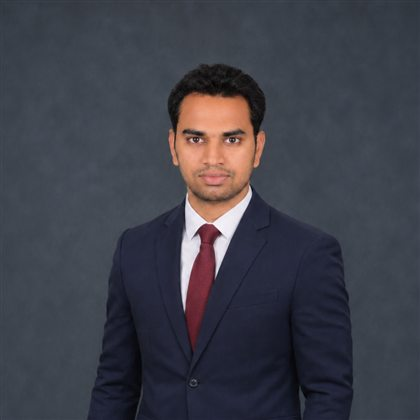
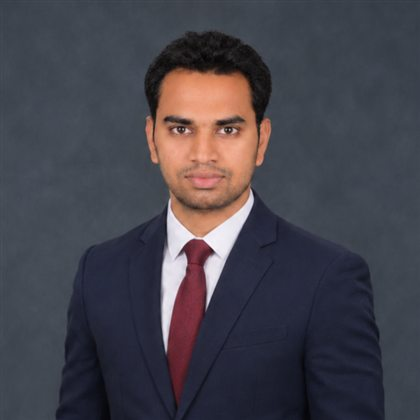
Replace Arpit Gupta portrait with updated photo

diff --git a/team.html b/team.html
@@ -1,1 +1,1 @@
-<!doctype html><html lang="en" id="top"><head><meta charset="utf-8"><meta name="viewport" content="width=device-width, initial-scale=1"><link rel="stylesheet" href="style.css"><script defer src="script.js"></script><title>Our Team | EPCO Integrated Solutions</title><meta name="description" content="Meet the people and capabilities behind EPCO Integrated Solutions."><link rel="canonical" href="https://www.epcoispl.com/in/team.html"><link rel="icon" href="favicon.svg" type="image/svg+xml"><meta property="og:type" content="website"><meta property="og:site_name" content="EPCO Integrated Solutions"><meta property="og:title" content="Our Team | EPCO Integrated Solutions"><meta property="og:description" content="Meet the people and capabilities behind EPCO Integrated Solutions."><meta property="og:url" content="https://www.epcoispl.com/in/team.html"><meta property="og:image" content="https://www.epcoispl.com/in/assets/hero-mumbai.webp"><meta property="og:image:alt" content="Illustrative building project"><meta name="twitter:card" content="summary_large_image"><meta name="twitter:title" content="Our Team | EPCO Integrated Solutions"><meta name="twitter:description" content="Meet the people and capabilities behind EPCO Integrated Solutions."><meta name="twitter:image" content="https://www.epcoispl.com/in/assets/hero-mumbai.webp"></head><body><a class="skip-link" href="#main-content">Skip to main content</a><header class="header"><a href="index.html" class="brand" aria-label="EPCO home"><img src="assets/logo.png" alt="EPCO Integrated Solutions" width="154" height="55"></a><button class="menu" aria-expanded="false" aria-controls="nav">Menu <span>☰</span></button><nav id="nav" aria-label="Main navigation"><a href="about.html">About</a><div class="nav-group"><button class="nav-toggle" aria-expanded="false" aria-controls="team-menu">Our Team<span class="nav-caret" aria-hidden="true"></span></button><div class="nav-dropdown" id="team-menu"><a href="team.html">Meet our team</a></div></div><div class="nav-group"><button class="nav-toggle" aria-expanded="false" aria-controls="services-menu">Services<span class="nav-caret" aria-hidden="true"></span></button><div class="nav-dropdown nav-services-dropdown" id="services-menu"><a href="services.html">All services</a><a href="operations.html">Integrated Facility Management</a><span class="nav-menu-label">Technical & workplace services</span><a href="hvac-maintenance.html">Mechanical &amp; HVAC</a><a href="electrical-maintenance.html">Electrical &amp; Power Systems</a><a href="elv-building-automation.html">ELV &amp; Building Automation</a><a href="plumbing-water-management.html">Plumbing, PHE &amp; Water Management</a><a href="fire-life-safety.html">Fire Protection &amp; Life Safety</a><a href="vertical-transportation.html">Lifts &amp; Vertical Transportation</a><a href="workplace-facility-services.html">Workplace &amp; Facility Support</a><a href="maintenance-asset-management.html">Maintenance, Assets &amp; Technical Support</a><a href="energy-sustainability.html">Energy &amp; Sustainability</a><span class="nav-menu-label">Project delivery</span><a href="engineering.html">Engineering</a><a href="procurement.html">Procurement</a><a href="supply-trading.html">Supply &amp; Trading</a><a href="construction.html">Construction</a><a href="project-management.html">Project Management</a><a href="turnkey-solutions.html">Turnkey Solutions</a></div></div><div class="nav-group"><button class="nav-toggle" aria-expanded="false" aria-controls="sectors-menu">Sectors<span class="nav-caret" aria-hidden="true"></span></button><div class="nav-dropdown" id="sectors-menu"><a href="sectors.html">Explore our sectors</a></div></div><a href="careers.html">Careers</a><a href="announcements.html">Announcements</a><a href="blogs.html">Blogs</a><a href="contact.html">Contact us</a><a class="header-email" href="mailto:epcoispl@gmail.com" aria-label="Email EPCO at epcoispl@gmail.com" title="epcoispl@gmail.com"><svg viewBox="0 0 24 24" width="20" height="20" fill="none" stroke="currentColor" stroke-width="1.7" stroke-linecap="round" stroke-linejoin="round" aria-hidden="true" focusable="false"><rect x="3" y="5" width="18" height="14" rx="2"></rect><path d="m3 7 9 6 9-6"></path></svg><span class="sr-only">epcoispl@gmail.com</span></a></nav></header><main id="main-content" tabindex="-1"><section class="page-banner"><div class="wrap"><div class="label">EPCO / OUR PEOPLE</div><h1>Our <em>team.</em></h1><p>Bringing people and project disciplines together to support the complete asset lifecycle.</p></div></section><section class="team-profiles" aria-labelledby="leadership-heading"><div class="wrap"><div class="label">OUR LEADERSHIP</div><h2 id="leadership-heading">Meet the people <em>behind EPCO.</em></h2><article class="leader-profile" aria-labelledby="arpit-name"><figure class="leader-photo"><img src="assets/arpit-gupta-420.jpg" srcset="assets/arpit-gupta-420.jpg 420w, assets/arpit-gupta-840.jpg 840w" sizes="(max-width: 520px) 88vw, (max-width: 800px) 460px, 420px" width="891" height="891" alt="Arpit Gupta, Managing Director of EPCO" loading="lazy" decoding="async"></figure><div class="leader-copy"><p class="leader-role">Managing Director</p><h3 id="arpit-name">Arpit Gupta</h3></div></article><article class="leader-profile" aria-labelledby="sekar-name"><figure class="leader-photo"><img src="assets/subramanian-sekar-420.jpg" srcset="assets/subramanian-sekar-420.jpg 420w, assets/subramanian-sekar-840.jpg 840w" sizes="(max-width: 520px) 88vw, (max-width: 800px) 460px, 420px" width="1254" height="1254" alt="Subramanian Sekar, Chief Executive Officer of EPCO" loading="lazy" decoding="async"></figure><div class="leader-copy"><p class="leader-role">Chief Executive Officer</p><h3 id="sekar-name">Subramanian Sekar</h3><p class="leader-experience">33+ years of infrastructure and project leadership</p><div class="leader-bio"><p>A distinguished Senior Infrastructure and Project Management Leader with over 33 years of experience in strategic leadership, development and delivery of large-scale infrastructure projects, particularly across the aviation and airport sectors.</p><p>Expertise spans airport development, terminal buildings, airside and landside infrastructure, metro interfaces and major civil engineering projects.</p><p>Strong capabilities in EPC project execution, contract and commercial management, financial control, value engineering and stakeholder leadership, with a proven track record of delivering complex projects through strategic vision, commercial acumen and execution excellence.</p></div></div></article></div></section><section class="wrap team-intro"><div><div class="label">WORKING TOGETHER</div><h2>One team.<br><em>Connected expertise.</em></h2></div><div><p class="lead">From planning and execution to the day-to-day operation of a facility, coordination matters.</p><p>Our work brings together engineering, procurement, construction and facility management capabilities to support each project's agreed scope.</p><a class="button" href="contact.html">Contact EPCO </a></div></section></main><footer><div class="wrap footer-layout"><div class="footer-brand"><a href="index.html" class="footer-logo" aria-label="EPCO home"><img width="154" height="55" src="assets/logo.png" alt="EPCO Integrated Solutions"></a><p>Engineering, procurement, construction and operations.</p></div><div><h2>Explore</h2><a href="index.html">Home</a><a href="about.html">About</a><a href="team.html">Our Team</a><a href="services.html">Services</a><a href="expertise.html">Expertise</a><a href="sectors.html">Sectors</a><a href="resources.html">Resources</a><a href="faq.html">FAQ</a></div><div class="footer-contact"><h2>Contact</h2><div class="contact-row"><span class="contact-icon"><svg viewBox="0 0 24 24" width="20" height="20" fill="none" stroke="currentColor" stroke-width="1.7" stroke-linecap="round" stroke-linejoin="round" aria-hidden="true" focusable="false"><path d="M20 10c0 6-8 11-8 11S4 16 4 10a8 8 0 1 1 16 0Z"></path><circle cx="12" cy="10" r="2.5"></circle></svg></span><div class="contact-copy"><span class="contact-label">Office</span><a href="https://www.google.com/maps/search/?api=1&amp;query=A103%20Bldg%20No1%205%2041-P%204%2C%20Shastri%20Bunglow%20Andheri%20W%2C%20Andheri%20Railway%20Station%2C%20Mumbai%2C%20Mumbai-%20400058%2C%20Maharashtra" target="_blank" rel="noopener noreferrer">A103 Bldg No1 5 41-P 4, Shastri Bunglow Andheri W, Andheri Railway Station, Mumbai, Mumbai- 400058, Maharashtra</a></div></div><div class="contact-row"><span class="contact-icon"><svg viewBox="0 0 24 24" width="20" height="20" fill="none" stroke="currentColor" stroke-width="1.7" stroke-linecap="round" stroke-linejoin="round" aria-hidden="true" focusable="false"><path d="m8 3 3 5-3 3a15 15 0 0 0 5 5l3-3 5 3c-1 5-4 6-8 4C7 17 3 12 3 7c0-2 2-4 5-4Z"></path></svg></span><div class="contact-copy"><span class="contact-label">Call us</span><a href="tel:+919167485843">+91 91674 85843</a></div></div><div class="contact-row"><span class="contact-icon"><svg viewBox="0 0 24 24" width="20" height="20" fill="none" stroke="currentColor" stroke-width="1.7" stroke-linecap="round" stroke-linejoin="round" aria-hidden="true" focusable="false"><rect x="3" y="5" width="18" height="14" rx="2"></rect><path d="m3 7 9 6 9-6"></path></svg></span><div class="contact-copy"><span class="contact-label">Email us</span><a href="mailto:epcoispl@gmail.com">epcoispl@gmail.com</a></div></div><div class="contact-row"><span class="contact-icon"><svg viewBox="0 0 24 24" width="20" height="20" fill="none" stroke="currentColor" stroke-width="1.7" stroke-linecap="round" stroke-linejoin="round" aria-hidden="true" focusable="false"><path d="M20 10c0 6-8 11-8 11S4 16 4 10a8 8 0 1 1 16 0Z"></path><circle cx="12" cy="10" r="2.5"></circle></svg></span><div class="contact-copy"><span class="contact-label">Registered office</span><a href="https://www.google.com/maps/search/?api=1&amp;query=B%2F301%2C%20Sky%20Heights%2C%20Evershine%20City%2C%20Vasai%2C%20Maharashtra%20401208%2C%20India" target="_blank" rel="noopener noreferrer">B/301, Sky Heights, Evershine City, Vasai, Maharashtra 401208, India</a></div></div></div><div><h2>Information</h2><a href="contact.html">Send an enquiry</a></div></div><div class="wrap footer-bottom"><small>© <span id="year"></span> EPCO Integrated Solutions Pvt. Ltd.</small><a href="#top">Back to top</a></div></footer></body></html>
+<!doctype html><html lang="en" id="top"><head><meta charset="utf-8"><meta name="viewport" content="width=device-width, initial-scale=1"><link rel="stylesheet" href="style.css"><script defer src="script.js"></script><title>Our Team | EPCO Integrated Solutions</title><meta name="description" content="Meet the people and capabilities behind EPCO Integrated Solutions."><link rel="canonical" href="https://www.epcoispl.com/in/team.html"><link rel="icon" href="favicon.svg" type="image/svg+xml"><meta property="og:type" content="website"><meta property="og:site_name" content="EPCO Integrated Solutions"><meta property="og:title" content="Our Team | EPCO Integrated Solutions"><meta property="og:description" content="Meet the people and capabilities behind EPCO Integrated Solutions."><meta property="og:url" content="https://www.epcoispl.com/in/team.html"><meta property="og:image" content="https://www.epcoispl.com/in/assets/hero-mumbai.webp"><meta property="og:image:alt" content="Illustrative building project"><meta name="twitter:card" content="summary_large_image"><meta name="twitter:title" content="Our Team | EPCO Integrated Solutions"><meta name="twitter:description" content="Meet the people and capabilities behind EPCO Integrated Solutions."><meta name="twitter:image" content="https://www.epcoispl.com/in/assets/hero-mumbai.webp"></head><body><a class="skip-link" href="#main-content">Skip to main content</a><header class="header"><a href="index.html" class="brand" aria-label="EPCO home"><img src="assets/logo.png" alt="EPCO Integrated Solutions" width="154" height="55"></a><button class="menu" aria-expanded="false" aria-controls="nav">Menu <span>☰</span></button><nav id="nav" aria-label="Main navigation"><a href="about.html">About</a><div class="nav-group"><button class="nav-toggle" aria-expanded="false" aria-controls="team-menu">Our Team<span class="nav-caret" aria-hidden="true"></span></button><div class="nav-dropdown" id="team-menu"><a href="team.html">Meet our team</a></div></div><div class="nav-group"><button class="nav-toggle" aria-expanded="false" aria-controls="services-menu">Services<span class="nav-caret" aria-hidden="true"></span></button><div class="nav-dropdown nav-services-dropdown" id="services-menu"><a href="services.html">All services</a><a href="operations.html">Integrated Facility Management</a><span class="nav-menu-label">Technical & workplace services</span><a href="hvac-maintenance.html">Mechanical &amp; HVAC</a><a href="electrical-maintenance.html">Electrical &amp; Power Systems</a><a href="elv-building-automation.html">ELV &amp; Building Automation</a><a href="plumbing-water-management.html">Plumbing, PHE &amp; Water Management</a><a href="fire-life-safety.html">Fire Protection &amp; Life Safety</a><a href="vertical-transportation.html">Lifts &amp; Vertical Transportation</a><a href="workplace-facility-services.html">Workplace &amp; Facility Support</a><a href="maintenance-asset-management.html">Maintenance, Assets &amp; Technical Support</a><a href="energy-sustainability.html">Energy &amp; Sustainability</a><span class="nav-menu-label">Project delivery</span><a href="engineering.html">Engineering</a><a href="procurement.html">Procurement</a><a href="supply-trading.html">Supply &amp; Trading</a><a href="construction.html">Construction</a><a href="project-management.html">Project Management</a><a href="turnkey-solutions.html">Turnkey Solutions</a></div></div><div class="nav-group"><button class="nav-toggle" aria-expanded="false" aria-controls="sectors-menu">Sectors<span class="nav-caret" aria-hidden="true"></span></button><div class="nav-dropdown" id="sectors-menu"><a href="sectors.html">Explore our sectors</a></div></div><a href="careers.html">Careers</a><a href="announcements.html">Announcements</a><a href="blogs.html">Blogs</a><a href="contact.html">Contact us</a><a class="header-email" href="mailto:epcoispl@gmail.com" aria-label="Email EPCO at epcoispl@gmail.com" title="epcoispl@gmail.com"><svg viewBox="0 0 24 24" width="20" height="20" fill="none" stroke="currentColor" stroke-width="1.7" stroke-linecap="round" stroke-linejoin="round" aria-hidden="true" focusable="false"><rect x="3" y="5" width="18" height="14" rx="2"></rect><path d="m3 7 9 6 9-6"></path></svg><span class="sr-only">epcoispl@gmail.com</span></a></nav></header><main id="main-content" tabindex="-1"><section class="page-banner"><div class="wrap"><div class="label">EPCO / OUR PEOPLE</div><h1>Our <em>team.</em></h1><p>Bringing people and project disciplines together to support the complete asset lifecycle.</p></div></section><section class="team-profiles" aria-labelledby="leadership-heading"><div class="wrap"><div class="label">OUR LEADERSHIP</div><h2 id="leadership-heading">Meet the people <em>behind EPCO.</em></h2><article class="leader-profile" aria-labelledby="arpit-name"><figure class="leader-photo"><img src="assets/arpit-gupta-420.jpg" srcset="assets/arpit-gupta-420.jpg 420w, assets/arpit-gupta-840.jpg 840w" sizes="(max-width: 520px) 88vw, (max-width: 800px) 460px, 420px" width="686" height="686" alt="Arpit Gupta, Managing Director of EPCO" loading="lazy" decoding="async"></figure><div class="leader-copy"><p class="leader-role">Managing Director</p><h3 id="arpit-name">Arpit Gupta</h3></div></article><article class="leader-profile" aria-labelledby="sekar-name"><figure class="leader-photo"><img src="assets/subramanian-sekar-420.jpg" srcset="assets/subramanian-sekar-420.jpg 420w, assets/subramanian-sekar-840.jpg 840w" sizes="(max-width: 520px) 88vw, (max-width: 800px) 460px, 420px" width="1254" height="1254" alt="Subramanian Sekar, Chief Executive Officer of EPCO" loading="lazy" decoding="async"></figure><div class="leader-copy"><p class="leader-role">Chief Executive Officer</p><h3 id="sekar-name">Subramanian Sekar</h3><p class="leader-experience">33+ years of infrastructure and project leadership</p><div class="leader-bio"><p>A distinguished Senior Infrastructure and Project Management Leader with over 33 years of experience in strategic leadership, development and delivery of large-scale infrastructure projects, particularly across the aviation and airport sectors.</p><p>Expertise spans airport development, terminal buildings, airside and landside infrastructure, metro interfaces and major civil engineering projects.</p><p>Strong capabilities in EPC project execution, contract and commercial management, financial control, value engineering and stakeholder leadership, with a proven track record of delivering complex projects through strategic vision, commercial acumen and execution excellence.</p></div></div></article></div></section><section class="wrap team-intro"><div><div class="label">WORKING TOGETHER</div><h2>One team.<br><em>Connected expertise.</em></h2></div><div><p class="lead">From planning and execution to the day-to-day operation of a facility, coordination matters.</p><p>Our work brings together engineering, procurement, construction and facility management capabilities to support each project's agreed scope.</p><a class="button" href="contact.html">Contact EPCO </a></div></section></main><footer><div class="wrap footer-layout"><div class="footer-brand"><a href="index.html" class="footer-logo" aria-label="EPCO home"><img width="154" height="55" src="assets/logo.png" alt="EPCO Integrated Solutions"></a><p>Engineering, procurement, construction and operations.</p></div><div><h2>Explore</h2><a href="index.html">Home</a><a href="about.html">About</a><a href="team.html">Our Team</a><a href="services.html">Services</a><a href="expertise.html">Expertise</a><a href="sectors.html">Sectors</a><a href="resources.html">Resources</a><a href="faq.html">FAQ</a></div><div class="footer-contact"><h2>Contact</h2><div class="contact-row"><span class="contact-icon"><svg viewBox="0 0 24 24" width="20" height="20" fill="none" stroke="currentColor" stroke-width="1.7" stroke-linecap="round" stroke-linejoin="round" aria-hidden="true" focusable="false"><path d="M20 10c0 6-8 11-8 11S4 16 4 10a8 8 0 1 1 16 0Z"></path><circle cx="12" cy="10" r="2.5"></circle></svg></span><div class="contact-copy"><span class="contact-label">Office</span><a href="https://www.google.com/maps/search/?api=1&amp;query=A103%20Bldg%20No1%205%2041-P%204%2C%20Shastri%20Bunglow%20Andheri%20W%2C%20Andheri%20Railway%20Station%2C%20Mumbai%2C%20Mumbai-%20400058%2C%20Maharashtra" target="_blank" rel="noopener noreferrer">A103 Bldg No1 5 41-P 4, Shastri Bunglow Andheri W, Andheri Railway Station, Mumbai, Mumbai- 400058, Maharashtra</a></div></div><div class="contact-row"><span class="contact-icon"><svg viewBox="0 0 24 24" width="20" height="20" fill="none" stroke="currentColor" stroke-width="1.7" stroke-linecap="round" stroke-linejoin="round" aria-hidden="true" focusable="false"><path d="m8 3 3 5-3 3a15 15 0 0 0 5 5l3-3 5 3c-1 5-4 6-8 4C7 17 3 12 3 7c0-2 2-4 5-4Z"></path></svg></span><div class="contact-copy"><span class="contact-label">Call us</span><a href="tel:+919167485843">+91 91674 85843</a></div></div><div class="contact-row"><span class="contact-icon"><svg viewBox="0 0 24 24" width="20" height="20" fill="none" stroke="currentColor" stroke-width="1.7" stroke-linecap="round" stroke-linejoin="round" aria-hidden="true" focusable="false"><rect x="3" y="5" width="18" height="14" rx="2"></rect><path d="m3 7 9 6 9-6"></path></svg></span><div class="contact-copy"><span class="contact-label">Email us</span><a href="mailto:epcoispl@gmail.com">epcoispl@gmail.com</a></div></div><div class="contact-row"><span class="contact-icon"><svg viewBox="0 0 24 24" width="20" height="20" fill="none" stroke="currentColor" stroke-width="1.7" stroke-linecap="round" stroke-linejoin="round" aria-hidden="true" focusable="false"><path d="M20 10c0 6-8 11-8 11S4 16 4 10a8 8 0 1 1 16 0Z"></path><circle cx="12" cy="10" r="2.5"></circle></svg></span><div class="contact-copy"><span class="contact-label">Registered office</span><a href="https://www.google.com/maps/search/?api=1&amp;query=B%2F301%2C%20Sky%20Heights%2C%20Evershine%20City%2C%20Vasai%2C%20Maharashtra%20401208%2C%20India" target="_blank" rel="noopener noreferrer">B/301, Sky Heights, Evershine City, Vasai, Maharashtra 401208, India</a></div></div></div><div><h2>Information</h2><a href="contact.html">Send an enquiry</a></div></div><div class="wrap footer-bottom"><small>© <span id="year"></span> EPCO Integrated Solutions Pvt. Ltd.</small><a href="#top">Back to top</a></div></footer></body></html>
